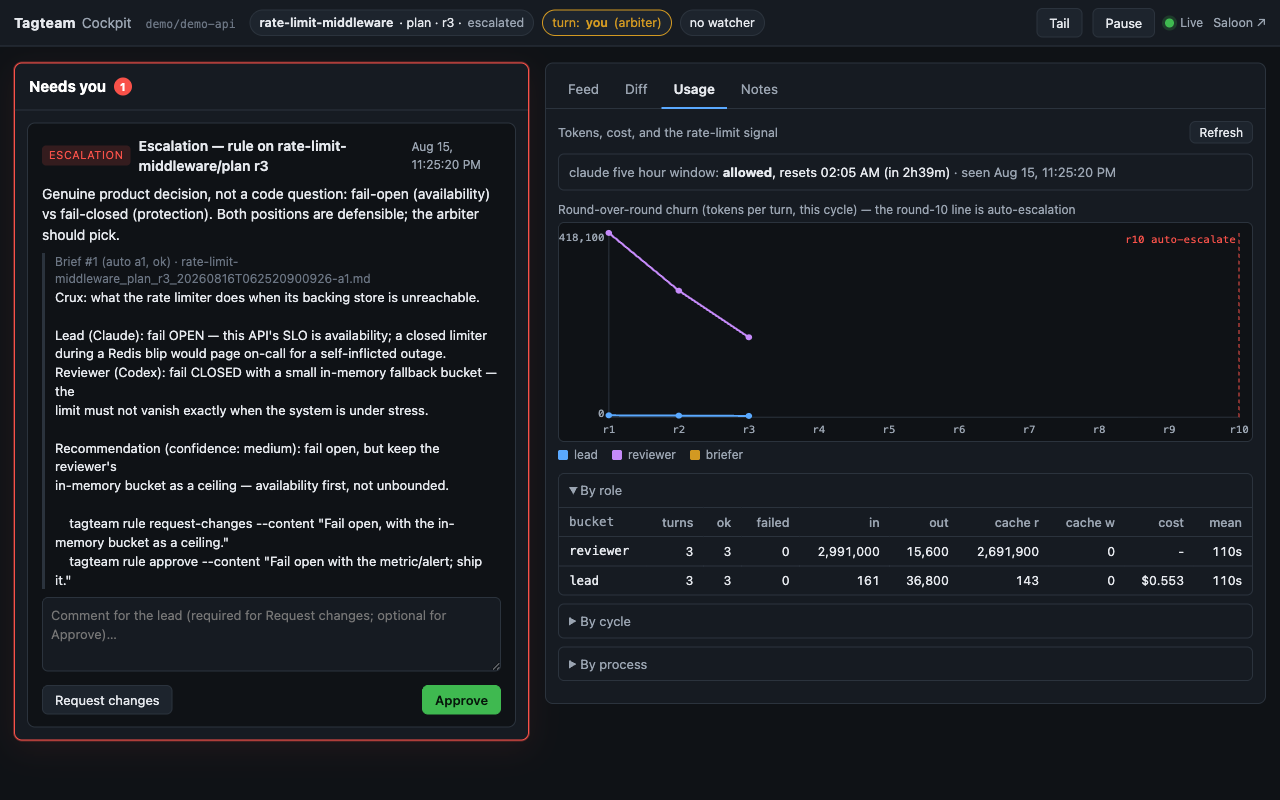
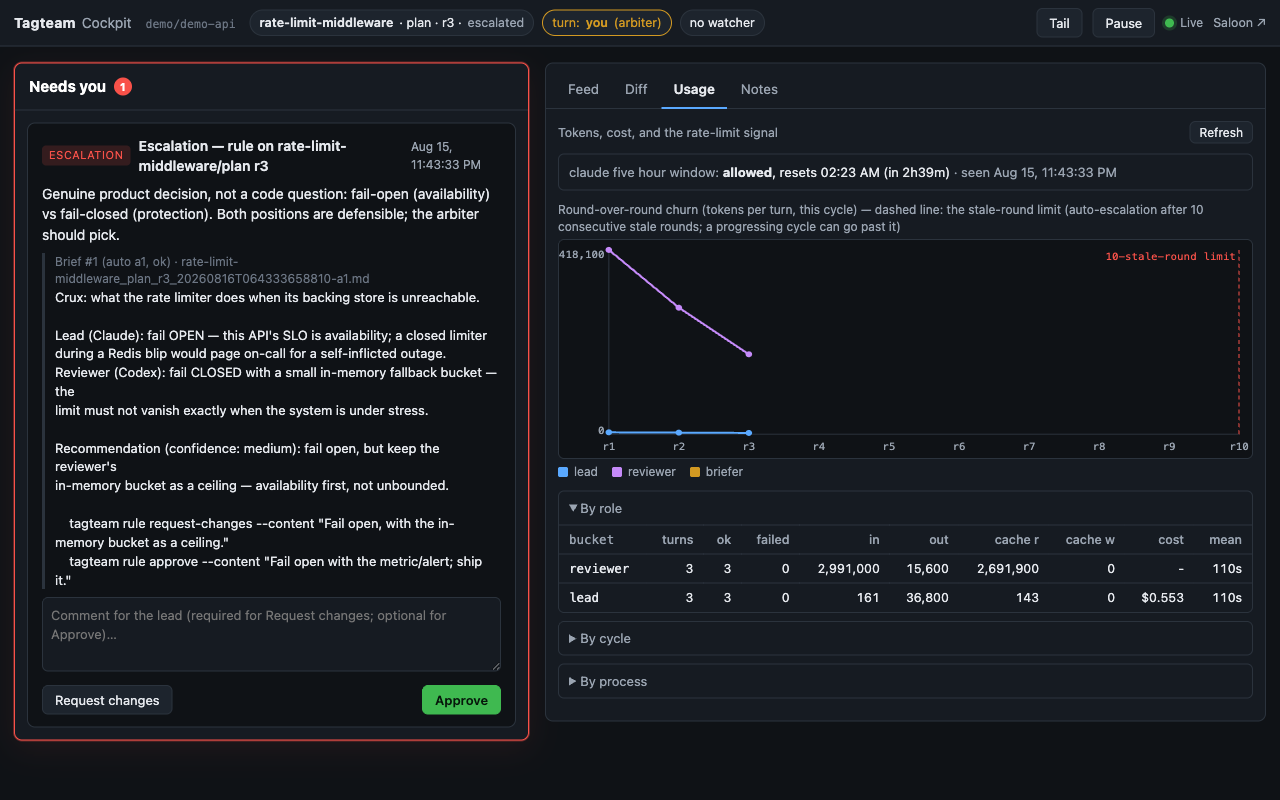
fix(phase-36): canonical-key precedence before as-of filter; cockpit stale-round wording (text-only) + recapture; loop diagram splits the arbiter's ruling outcomes; semantic tests

diff --git a/tagteam/data/web/cockpit.js b/tagteam/data/web/cockpit.js
@@ -536,11 +536,13 @@
     line(padL, H - padB, W - padR, H - padB, '#2b333d'); line(padL, padT, padL, H - padB, '#2b333d');
     for (var r = 1; r <= maxR; r++) { if (maxR <= 12 || r % 2 === 1) text(X(r), H - 8, 'r' + r, 'middle'); }
     text(padL - 4, padT + 8, fmtInt(maxY), 'end'); text(padL - 4, H - padB, '0', 'end');
-    // round-10 escalation line
+    // stale-round limit marker (auto-escalation fires after 10 consecutive
+    // stale rounds — unchanged re-submissions — not at a fixed round number;
+    // the marker only gives the curve a scale)
     if (maxR >= 10) {
       line(X(10), padT, X(10), H - padB, '#f85149', '4 3');
-      var nearRight = X(10) > W - padR - 110;
-      text(X(10) + (nearRight ? -3 : 3), padT + 10, 'r10 auto-escalate', nearRight ? 'end' : 'start', '#f85149');
+      var nearRight = X(10) > W - padR - 150;
+      text(X(10) + (nearRight ? -3 : 3), padT + 10, '10-stale-round limit', nearRight ? 'end' : 'start', '#f85149');
     }
     var colors = { lead: '#5aa9ff', reviewer: '#c58af9', briefer: '#d29922' };
     Object.keys(byRole).forEach(function (role) {

diff --git a/tagteam/data/web/cockpit.html b/tagteam/data/web/cockpit.html
@@ -84,7 +84,7 @@
       <div class="panel-head"><span>Tokens, cost, and the rate-limit signal</span><span class="spacer"></span><button class="btn btn-small" id="btn-usage-refresh">Refresh</button></div>
       <div class="rate-line" id="rate-line">—</div>
       <div class="chart-wrap">
-        <div class="chart-title">Round-over-round churn (tokens per turn, this cycle) — the round-10 line is auto-escalation</div>
+        <div class="chart-title">Round-over-round churn (tokens per turn, this cycle) — dashed line: the stale-round limit (auto-escalation after 10 consecutive stale rounds; a progressing cycle can go past it)</div>
         <svg id="churn" class="churn" viewBox="0 0 640 220" preserveAspectRatio="none" role="img" aria-label="churn curve"></svg>
         <div class="legend"><span class="lg lead">lead</span><span class="lg reviewer">reviewer</span><span class="lg briefer">briefer</span></div>
       </div>

diff --git a/tests/test_docs_story.py b/tests/test_docs_story.py
@@ -154,14 +154,18 @@ def test_svg_meets_portfolio_conventions(name):
     assert (root.get("aria-label") or "").strip(), f"{name}: aria-label required"
 
 
-def _svg_node_labels(name: str) -> list[str]:
+def _svg_labels(name: str, cls: str) -> list[str]:
     root = ET.fromstring((MEDIA / name).read_text(encoding="utf-8"))
     out = []
     for el in root.iter():
-        if el.tag.endswith("text") and (el.get("class") or "").split().count("node"):
+        if el.tag.endswith("text") and (el.get("class") or "").split().count(cls):
             txt = "".join(el.itertext())
             out.append(re.sub(r"\s+", " ", txt).strip())
     return out
+
+
+def _svg_node_labels(name: str) -> list[str]:
+    return _svg_labels(name, "node")
 
 
 def _norm(s: str) -> str:
@@ -176,8 +180,47 @@ def test_svg_node_labels_appear_in_the_matching_mermaid_block(index, name):
     assert labels, f"{name}: mark node labels with class=\"node\""
     for label in labels:
         assert _norm(label) in mermaid, f"{name}: node label {label!r} not found in README mermaid block {index}"
+    for label in _svg_labels(name, "edge"):
+        assert _norm(label) in mermaid, f"{name}: edge label {label!r} not found in README mermaid block {index}"
     manifest = MANIFEST.read_text(encoding="utf-8")
     assert name in manifest, f"{name} missing from docs/media/README.md"
+
+
+_EDGE_RE = re.compile(r'^\s*([A-Za-z_]\w*)(?:\[[^\]]*\]|\([^)]*\)|\[\([^)]*\)\])?\s*(?:--\s*"([^"]*)"\s*-->|-\.\s*"([^"]*)"\s*\.->|-->|-\.->)\s*([A-Za-z_]\w*)', re.M)
+
+
+def _edges(block: str) -> dict[tuple[str, str], str]:
+    out = {}
+    for m in _EDGE_RE.finditer(block):
+        out[(m.group(1), m.group(4))] = _norm(m.group(2) or m.group(3) or "")
+    return out
+
+
+def test_loop_diagram_routes_the_arbiters_ruling_correctly():
+    """The hero diagram's semantics, not just its labels: both reviews can
+    escalate; the arbiter's ruling takes the reviewer's seat — request
+    changes goes back to the lead step, approving the plan goes to
+    implementation, approving the implementation advances the roadmap.
+    A generic 'ruling' edge (which would suggest approval also returns to
+    the lead) is not allowed."""
+    block = _mermaid_blocks(README.read_text(encoding="utf-8"))[0]
+    edges = _edges(block)
+    assert edges[("PR", "A")] == "escalate" and edges[("IR", "A")] == "escalate"
+    assert "request changes" in edges[("A", "P")] and "approve" not in edges[("A", "P")]
+    assert "approve" in edges[("A", "I")] and "request changes" in edges[("A", "I")]
+    assert "approve" in edges[("A", "R")] and "request changes" not in edges[("A", "R")]
+    assert edges[("A", "R")].endswith("(impl)") and "(plan)" in edges[("A", "P")]
+    for (src, dst), label in edges.items():
+        if src == "A":
+            assert label != "ruling", f"generic ruling edge A->{dst}"
+    # the SVG mirrors the same three ruling outcomes and both escalations
+    edge_labels = [_norm(l) for l in _svg_labels("tagteam-loop.svg", "edge")]
+    assert edge_labels.count("escalate") == 2
+    assert any("request changes (plan)" in l for l in edge_labels)
+    assert any("approve (plan)" in l and "request changes (impl)" in l for l in edge_labels)
+    assert any(l == "approve (impl)" for l in edge_labels)
+    for doc in (README, SHOWCASE, MANIFEST):
+        assert "reviewer's seat" in doc.read_text(encoding="utf-8"), f"{doc.name}: alt text / prose must state the ruling semantics"
 
 
 # --------------------------------------------------------- screenshots ----
@@ -238,6 +281,12 @@ def test_glossary_guard():
                 for pat in _BANNED_PHRASES[:2]:
                     assert not re.search(pat, t, re.I), f"{name}: label {t!r}"
     assert "10 consecutive stale rounds" in README.read_text(encoding="utf-8")
+    # the shipped cockpit must not describe its churn marker as a round-number rule
+    for f in ("cockpit.html", "cockpit.js"):
+        text = (REPO / "tagteam" / "data" / "web" / f).read_text(encoding="utf-8")
+        for pat in (r"round-10 line", r"r10 auto-escalate", r"\bround[- ]10\b", r"\b10 rounds\b"):
+            assert not re.search(pat, text, re.I), f"{f}: {pat!r}"
+    assert "10 consecutive stale rounds" in (REPO / "tagteam" / "data" / "web" / "cockpit.html").read_text(encoding="utf-8")
 
 
 def test_readme_opens_with_the_loop_and_names_the_roles_first():

diff --git a/tests/test_showcase_numbers.py b/tests/test_showcase_numbers.py
@@ -84,6 +84,15 @@ def fixture_root(tmp_path: Path) -> Path:
         _entry(1, "lead", "SUBMIT_FOR_REVIEW", "x", T.format(d=1)),
         _entry(1, "reviewer", "APPROVE", "ok", T.format(d=1)),
     ])
+    # canonical copy entirely after the as-of date + an older legacy duplicate:
+    # docs/handoffs owns the key, so the cycle is EXCLUDED (the legacy copy must not resurface)
+    _cycle(tmp_path, ".tagteam/legacy", "dup", "plan", [
+        _entry(1, "lead", "SUBMIT_FOR_REVIEW", "old", "2026-05-01T10:00:00+00:00"),
+        _entry(1, "reviewer", "APPROVE", "ok", "2026-05-01T11:00:00+00:00"),
+    ])
+    _cycle(tmp_path, "docs/handoffs", "dup", "plan", [
+        _entry(1, "lead", "SUBMIT_FOR_REVIEW", "new", "2026-05-09T10:00:00+00:00"),
+    ], state="in-progress")
     # entirely after the as-of date -> excluded
     _cycle(tmp_path, "docs/handoffs", "future", "plan", [
         _entry(1, "lead", "SUBMIT_FOR_REVIEW", "x", "2026-05-09T00:00:00+00:00"),
@@ -108,6 +117,8 @@ def test_report_methodology(fixture_root):
     assert rows[("delta", "impl")]["outcome"] == "approved by ruling" and rows[("delta", "impl")]["actions"]["RULING"] == 1
     assert rows[("alpha", "impl")]["approve_round"] == 1          # docs/handoffs won over legacy round 5
     assert rows[("straddle", "plan")]["outcome"] == "in progress"  # APPROVE at cutoff dropped
+    assert ("dup", "plan") not in rows                              # canonical owns the key; legacy never resurfaces
+    assert ("future", "plan") not in rows
     text = sn.render_report("2026-05-08", cycles, None)
     assert "| cycles | 3 | 4 | 7 |" in text
     assert "| approved | 1 | 2 | 3 |" in text

diff --git a/scripts/showcase_numbers.py b/scripts/showcase_numbers.py
@@ -115,8 +115,15 @@ def _stale_streak(submissions: list[str]) -> int:
 
 
 def load_cycles(root: Path, cutoff: _dt.datetime) -> list[dict]:
-    """Every (phase, type) with a status file, docs/handoffs winning."""
+    """Every (phase, type) with a status file, docs/handoffs winning.
+
+    Precedence is decided BEFORE the as-of filter: the first directory in
+    CYCLE_DIRS that has a status file for a (phase, type) owns that key,
+    even if none of its entries survives the cutoff — a superseded legacy
+    copy must never resurface just because the canonical cycle is newer
+    than the as-of date."""
     seen: dict[tuple[str, str], dict] = OrderedDict()
+    reserved: set[tuple[str, str]] = set()
     for sub in CYCLE_DIRS:
         d = root / sub
         if not d.is_dir():
@@ -130,8 +137,9 @@ def load_cycles(root: Path, cutoff: _dt.datetime) -> list[dict]:
             phase = status.get("phase") or stem.rsplit("_", 1)[0]
             ctype = status.get("type") or stem.rsplit("_", 1)[1]
             key = (phase, ctype)
-            if key in seen:
+            if key in reserved:
                 continue
+            reserved.add(key)
             rounds_file = d / f"{stem}_rounds.jsonl"
             entries: list[dict] = []
             if rounds_file.exists():

diff --git a/docs/phases/visual-story-portfolio-feed-findings.md b/docs/phases/visual-story-portfolio-feed-findings.md
@@ -34,8 +34,8 @@ tests only; the `tagteam/` package tree is byte-identical to 0.12.0.
   `export-usage --as-of …`), **`scripts/showcase_seed.py DIR`**,
   **`scripts/upgrade_smoke.py`** (`--project --sentinel --python
   --expect-version --json`).
-- **Tests:** `tests/test_docs_story.py` (20), `tests/test_showcase_numbers.py`
-  (7), `tests/test_upgrade_smoke.py` (5). Full suite: **931 passed, 5
+- **Tests:** `tests/test_docs_story.py` (21), `tests/test_showcase_numbers.py`
+  (7), `tests/test_upgrade_smoke.py` (5). Full suite: **932 passed, 5
   skipped**.
 - Bookkeeping: `pyproject.toml` and `CITATION.cff` → 3.0.0; roadmap;
   proposal §5 "shipped as 3.0.0" note.
@@ -66,14 +66,22 @@ command.
   three `<details>` platform blocks) which the ledger keeps verbatim; the
   narrative part (top through "Watch and steer") is 222 lines including
   the four mermaid blocks (~50 lines). Left as is rather than cutting reference material.
-- **Cockpit UI wording**: the shipped Phase 34 Usage chart labels its
-  marker "r10 auto-escalate" and its caption says "the round-10 line is
-  auto-escalation" (`tagteam/data/web/cockpit.js`). That is the imprecise
-  wording this phase removes from the docs — but the plan's contract is a
-  zero-diff `tagteam/` tree, so it is **not** changed here; the
-  `cockpit-usage.png` screenshot shows it. Proposed follow-up: a 3.0.1
-  wording fix ("stale-round limit") in `cockpit.js`. The docs never call it
-  a round-10 line.
+- **Cockpit UI wording (round 2, reviewer)**: the shipped Phase 34 Usage
+  chart labelled its marker "r10 auto-escalate" and its caption said "the
+  round-10 line is auto-escalation" — the false rule this phase removes
+  from the docs. Round 1 left it untouched to honor the zero-diff
+  `tagteam/` contract; the reviewer ruled a knowingly false portfolio
+  visual cannot ship, so it is corrected as a **disclosed, text-only
+  package change**: `tagteam/data/web/cockpit.html` (caption → "dashed
+  line: the stale-round limit (auto-escalation after 10 consecutive stale
+  rounds; a progressing cycle can go past it)") and `cockpit.js` (marker
+  label → "10-stale-round limit", comment). `git diff origin/main --
+  tagteam/` is exactly those two files (6+/4−); the wheel comparison
+  against 0.12.0 differs in exactly those two entries; no behavior change;
+  `tagteam/data/web` is not among the files `setup`/`upgrade` copy, so the
+  upgrade no-op is unaffected. `cockpit-usage.png` recaptured from the
+  seed with the new wording (visible in the caption and marker); a test
+  forbids the old wording in both files.
 - **Test module split**: the harness tests live in
   `tests/test_upgrade_smoke.py` (the plan named
   `tests/test_docs_story.py::test_upgrade_smoke_isolated`); the assertions
@@ -93,6 +101,30 @@ command.
 - **Windows note for `upgrade_smoke.py`**: `Path.is_relative_to` and
   `os.path.samefile` behave the same; the harness compares resolved paths
   and the tests run in CI on `windows-latest`.
+
+## Round 2 (reviewer impl r1)
+
+1. **Canonical precedence before the as-of filter** —
+   `load_cycles` now reserves a `(phase, type)` key for the first directory
+   (`docs/handoffs/`) that has a status file, *before* filtering, so a
+   canonical cycle whose entries are all after the cutoff is excluded and
+   the older `.tagteam/legacy/` duplicate can never resurface. Regression
+   case added to the fixture (canonical `dup/plan` dated 2026-05-09,
+   legacy duplicate approved 2026-05-01, as-of 2026-05-08 → the cycle is
+   absent). This repo has no such duplicates, so the committed block is
+   unchanged (byte-compare still green).
+2. **Cockpit wording** — see the deviation entry above; screenshot
+   recaptured; guard test added.
+3. **Loop diagram ruling routing** — the mermaid and `tagteam-loop.svg` no
+   longer send a generic "ruling" back to the Lead: `A → P` "request
+   changes (plan)", `A → I` "approve (plan) / request changes (impl)",
+   `A → R` "approve (impl)"; README role bullet, SVG `aria-label`, manifest
+   and showcase alt texts say the ruling takes the reviewer's seat.
+   `test_loop_diagram_routes_the_arbiters_ruling_correctly` parses the
+   README block's edges (both escalations, the three ruling outcomes with
+   their labels, no generic "ruling" edge) and the SVG's `class="edge"`
+   labels (also checked ⊆ the mermaid text). Re-rendered:
+   `docs/phases/media/phase-36-loop-render-r2.jpg`.
 
 ## In-cycle gates (all local, none needs a PR / tag / PyPI)
 
@@ -126,13 +158,17 @@ command.
    "10 rounds" / "round-10" / "review cycle" / "handoff session" /
    "handoff cycle" in the story docs or SVG labels).
 6. **Release readiness** —
-   - `pytest`: 931 passed, 5 skipped (macOS, 2 m 40 s).
-   - `git diff origin/main -- tagteam/`: **0 lines** (origin/main =
-     688daa8 = v0.12.0).
+   - `pytest`: 932 passed, 5 skipped (macOS, 2 m 37 s; round 2).
+   - `git diff origin/main -- tagteam/`: round 1 **0 lines**; after the
+     round-2 wording fix exactly `tagteam/data/web/cockpit.html` (1 line)
+     and `cockpit.js` (marker label + comment) — nothing else (origin/main
+     = 688daa8 = v0.12.0).
    - `pip wheel . --no-deps` → `tagteam-3.0.0-py3-none-any.whl`,
      `METADATA` `Version: 3.0.0`; the wheel's 86 `tagteam/` entries have
-     the **same file list and the same sha256 hashes** as the
-     `tagteam-0.12.0-py3-none-any.whl` downloaded from PyPI.
+     the **same file list** as the `tagteam-0.12.0-py3-none-any.whl`
+     downloaded from PyPI and the same sha256 hashes for 84 of them — the
+     two differing entries are exactly `tagteam/data/web/cockpit.html` and
+     `cockpit.js` (the round-2 wording fix).
    - Upgrade smoke, only through the harness: a scratch venv with the
      0.12.0 wheel; 0.12.0's `setup.main` run in a fresh `-I` process with
      `registry.REGISTRY_DIR/REGISTRY_FILE` patched to a scratch registry

diff --git a/docs/phases/visual-story-portfolio-feed-30-arc.md b/docs/phases/visual-story-portfolio-feed-30-arc.md
@@ -5,7 +5,7 @@
 - [x] In Review (round 2: public-safe evidence + screenshot pipeline, 1:1 diagram contract, stale-round wording, in-cycle release gate vs post-approval checklist, numbers methodology + byte-compare guard; round 3: registry-isolated upgrade smoke, `--as-of` + `attempt` in the snapshot contract, stale streak = equal transitions; round 4: sentinel outside every registry, no `HOME` override, fail-closed registry-path assertion, existence+hash snapshots; round 5: post-approval installed-wheel check goes through the harness with `--python`, helper reports imported tagteam version/path; round 6: exact launch `<--python> -I -c` with cwd outside the repo, helper reports executable/prefix/version/file, parent verifies before any registry call, temp-venv shadowing test)
 - [x] Approved (round 6)
 - [x] Implementation
-- [ ] Implementation Review
+- [x] Implementation Review (round 2: canonical-key precedence before the as-of filter, cockpit stale-round wording + recapture, arbiter ruling routing split in the loop diagram)
 - [ ] Complete (release **3.0.0** via PR — the release that completes Phase 36 ships as 3.0.0, proposal §5)
 
 ## Roles
@@ -354,7 +354,10 @@ license / link-back paragraph (139e099) is kept verbatim in §8.
 - The portfolio repo (`jblacketter.github.io`) — not touched; the
   manifest tells it what to consume.
 - Any package code, CLI, flags, schema, or `tagteam/data/` (SKILL.md,
-  templates) changes. Version bump only.
+  templates) changes. Version bump only. *(Impl round 2 exception, at the
+  reviewer's request: the cockpit chart's incorrect "round-10" wording is
+  corrected — two text-only edits under `tagteam/data/web/`, no
+  behavior change.)*
 - Animated / interactive diagrams, mermaid rendering pipelines, or
   auto-generating the SVGs from mermaid (hand-authored on purpose: the
   portfolio look is not mermaid's; the consistency test guards drift).
@@ -403,7 +406,14 @@ license / link-back paragraph (139e099) is kept verbatim in §8.
    HTW verbatim).
 6. **Release-readiness gate, all local:** `pytest` green (macOS; CI runs
    on the PR after approval); `git diff origin/main -- tagteam/` empty
-   (origin/main == v0.12.0 at branch time; re-checked at submission);
+   (origin/main == v0.12.0 at branch time; re-checked at submission) —
+   **amended in impl round 2 (reviewer):** the one permitted exception is
+   the text-only correction of the cockpit Usage chart's wording
+   (`tagteam/data/web/cockpit.html` caption + `cockpit.js` marker label:
+   "round-10 line / r10 auto-escalate" → "stale-round limit … 10
+   consecutive stale rounds"), disclosed in findings, guarded by a test,
+   and verified narrowly: the diff is those two files only and the wheel
+   comparison differs in exactly those two entries; no behavior change;
    `pip wheel . --no-deps` builds, `METADATA` says `Version: 3.0.0`, and
    the wheel's `tagteam/` file list + hashes equal the 0.12.0 wheel's
    (downloaded from PyPI into the scratchpad, compared in findings);

diff --git a/docs/media/README.md b/docs/media/README.md
@@ -11,7 +11,7 @@ SVGs mirror the four README mermaid blocks node-for-node; a test
 
 | file | viewBox | mirrors README block | portfolio slot | alt text |
 |---|---|---|---|---|
-| `tagteam-loop.svg` | 800×260 | ① *The loop* | hero (the `aegis-flow` slot) | The tagteam loop: a roadmap phase goes to the Lead who writes the plan, the Reviewer reviews it and requests changes or approves, the Lead implements, the Reviewer reviews the implementation and approves (next phase) or requests changes; either review can escalate to the Arbiter, whose ruling goes back to the Lead. |
+| `tagteam-loop.svg` | 800×260 | ① *The loop* | hero (the `aegis-flow` slot) | The tagteam loop: a roadmap phase goes to the Lead who writes the plan, the Reviewer reviews it and requests changes or approves, the Lead implements, the Reviewer reviews the implementation and approves (next phase) or requests changes; either review can escalate to the Arbiter, whose ruling takes the reviewer's seat: request changes hands the turn back to the Lead, approving the plan sends it to implementation, approving the implementation advances the roadmap. |
 | `tagteam-cycle.svg` | 800×260 | ② *One cycle* | detail hero | One cycle as a state machine: Submitted → Changes (request changes) → Submitted (round N+1); Submitted → Approved; Submitted → Escalated on ESCALATE / NEED_HUMAN or after 10 consecutive stale rounds; the arbiter's ruling approves or hands changes back; AMEND loops on the same round. |
 | `tagteam-modes.svg` | 800×240 | ③ *Choose how much runs by itself* | tiers (the `aegis-tiers` slot) | A ladder rising left to right: Manual (you paste /handoff between two agents), Watched (tagteam watch drives your terminals), Headless (each turn is a fresh claude -p / codex exec), + Cockpit & Hub (watch and steer from the browser). |
 | `tagteam-headless.svg` | 800×260 | ④ *Headless: fresh process per turn* | detail hero | The 3.0 architecture: watcher → fresh turn process → files/DB → turn flip back; the cockpit reads over SSE, the hub mounts one cockpit per project, the arbiter pauses / interjects / rules through the cockpit, which runs the same CLI commands. |

diff --git a/README.md b/README.md
@@ -19,13 +19,14 @@ flowchart LR
     IR -- "approve" --> R
     PR -. "escalate" .-> A["Arbiter (you)<br/>rules"]
     IR -. "escalate" .-> A
-    A -. "ruling" .-> P
-    A -. "ruling" .-> I
+    A -. "request changes (plan)" .-> P
+    A -. "approve (plan) /<br/>request changes (impl)" .-> I
+    A -. "approve (impl)" .-> R
 ```
 
 - **Lead** (one AI agent) plans each phase, then implements the approved plan.
 - **Reviewer** (a second AI agent) reviews both — the plan, then the implementation — and approves, requests changes, or escalates.
-- **Arbiter** (you) enters only when the two cannot settle it: an escalation, a question only a human can answer, or a cycle that stopped making progress.
+- **Arbiter** (you) enters only when the two cannot settle it: an escalation, a question only a human can answer, or a cycle that stopped making progress. Your ruling takes the reviewer's seat: **request changes** hands the turn back to the Lead; **approve** closes the cycle — an approved plan goes to implementation, an approved implementation advances the roadmap.
 
 Each phase in `docs/roadmap.md` goes through two cycles — **plan**, then **impl** — and each cycle is a sequence of **rounds** (one lead submission, one reviewer response). Every round is appended to `docs/handoffs/`, and `handoff-state.json` says whose turn it is; either agent can pick up where the other left off.
 

diff --git a/docs/showcase.md b/docs/showcase.md
@@ -16,7 +16,7 @@ itself and call you only when it needs a decision.
 
 ## The loop
 
-<p align="center"><img src="media/tagteam-loop.svg" alt="The tagteam loop: a roadmap phase goes to the Lead who writes the plan, the Reviewer reviews it and requests changes or approves, the Lead implements, the Reviewer reviews the implementation and approves (next phase) or requests changes; either review can escalate to the Arbiter, whose ruling goes back to the Lead" width="100%"></p>
+<p align="center"><img src="media/tagteam-loop.svg" alt="The tagteam loop: a roadmap phase goes to the Lead who writes the plan, the Reviewer reviews it and requests changes or approves, the Lead implements, the Reviewer reviews the implementation and approves (next phase) or requests changes; either review can escalate to the Arbiter, whose ruling takes the reviewer's seat: request changes hands the turn back to the Lead, approving the plan sends it to implementation, approving the implementation advances the roadmap" width="100%"></p>
 
 Every phase goes through two cycles — **plan**, then **impl** — and every
 cycle is a sequence of rounds: the Lead submits, the Reviewer approves,
